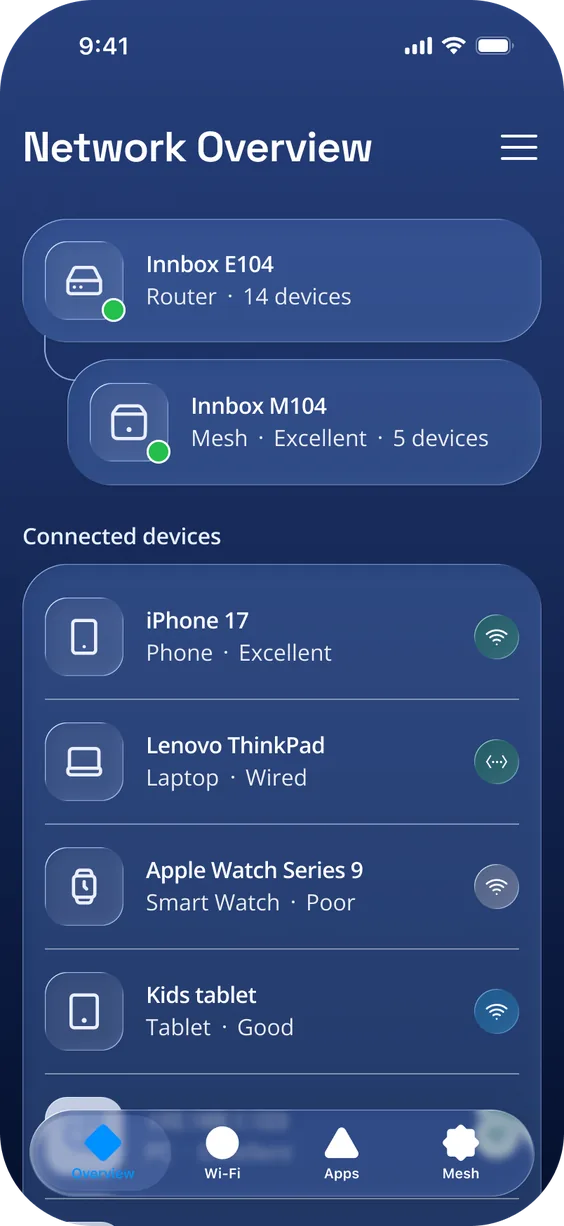
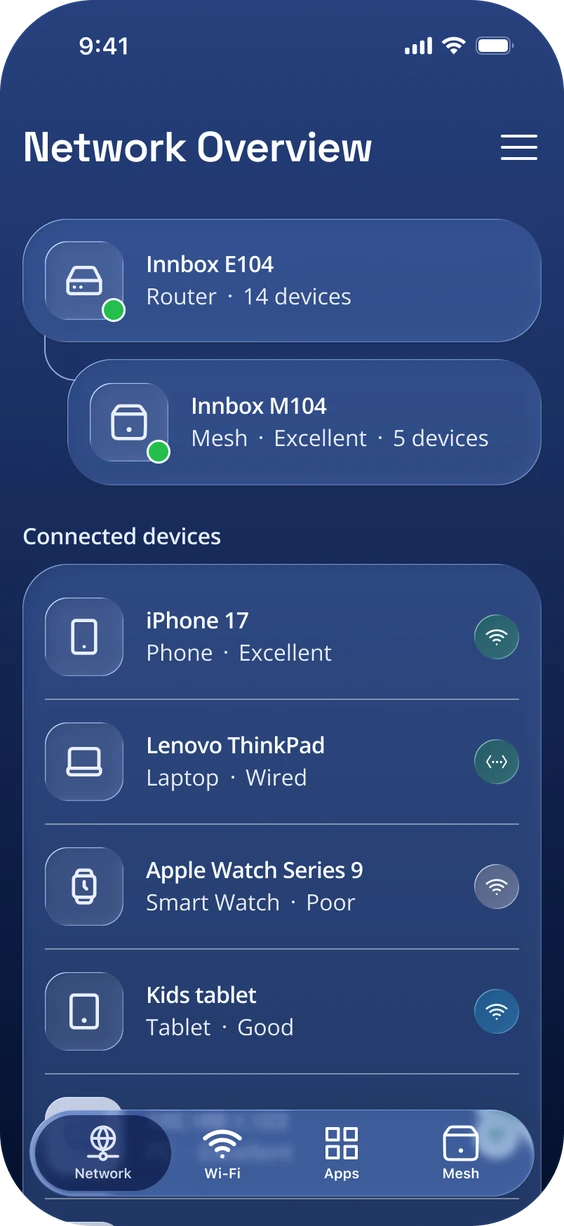
Home network app: new screenshot, shadow round at the corners
Swap in the new app screenshot (the dynamic island stays, drawn on top).
The glare copy of the screenshot is now rounded like the phone, so its
shadow follows the corners instead of leaving a lighter square patch
behind each one.

Claude-Session: https://claude.ai/code/session_014etFkVXGaChMwfVfFxj998

Changed region(s): [[0.0603, 0.8989, 0.5124, 0.9918], [0.7837, 0.8989, 0.9344, 0.9608], [0.5727, 0.8989, 0.633, 0.9608]]

diff --git a/css/styles.css b/css/styles.css
@@ -409,7 +409,8 @@ img.is-missing { visibility: hidden; }
   overflow: hidden;
 }
 .shot--phone img { width: 100%; height: 100%; object-fit: cover; }
-.shot--phone-glare { object-fit: cover; opacity: 0.9; }
+/* Rounded like the phone, so its shadow follows the corners too. */
+.shot--phone-glare { object-fit: cover; opacity: 0.9; border-radius: calc(47 * var(--u)); }
 
 .phone-island {
   left: calc(250 * var(--u));
